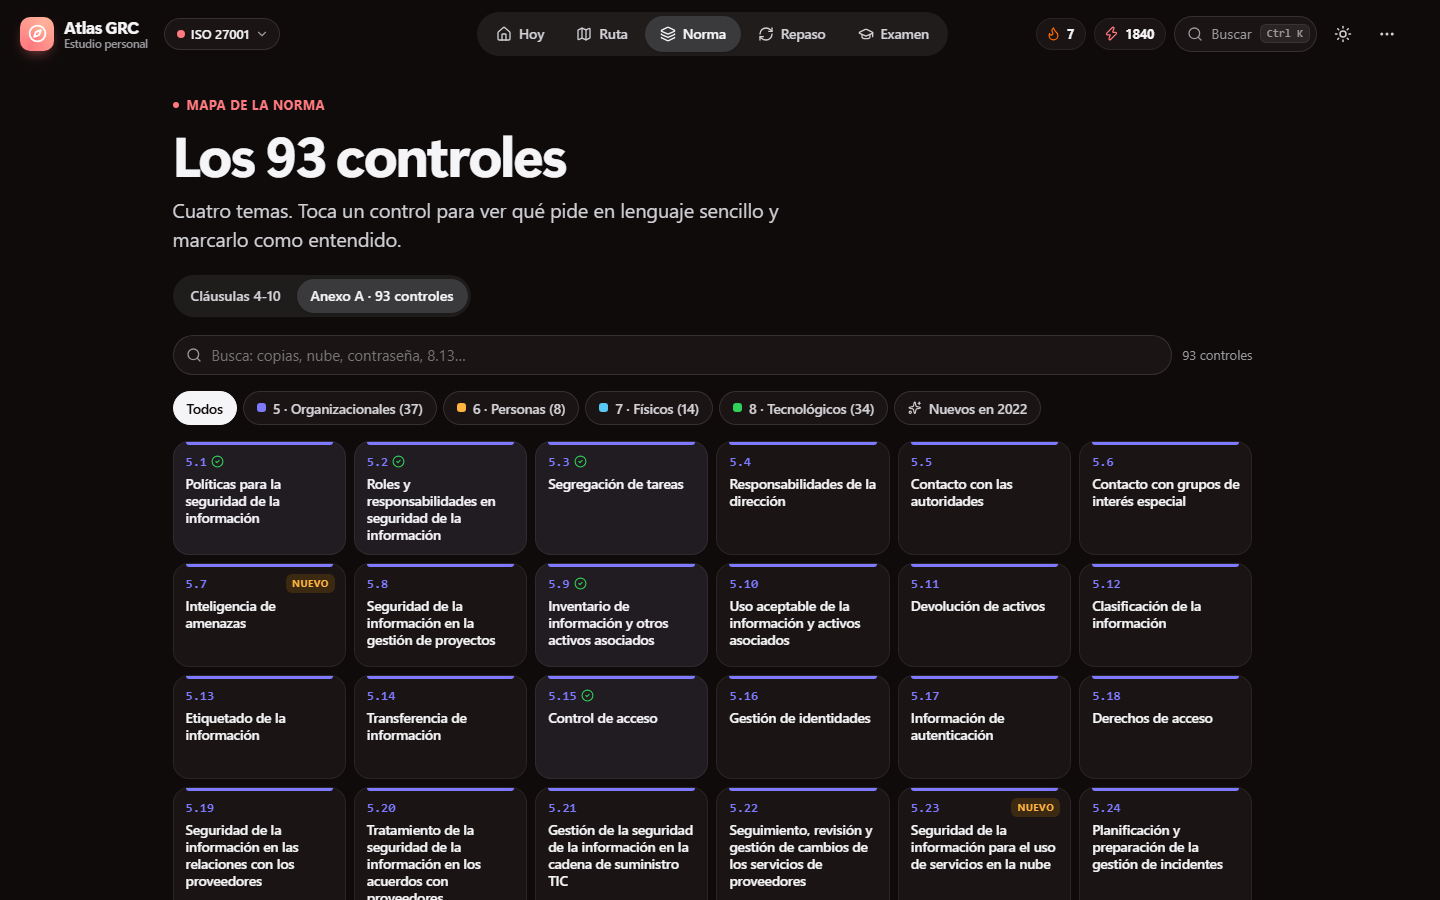
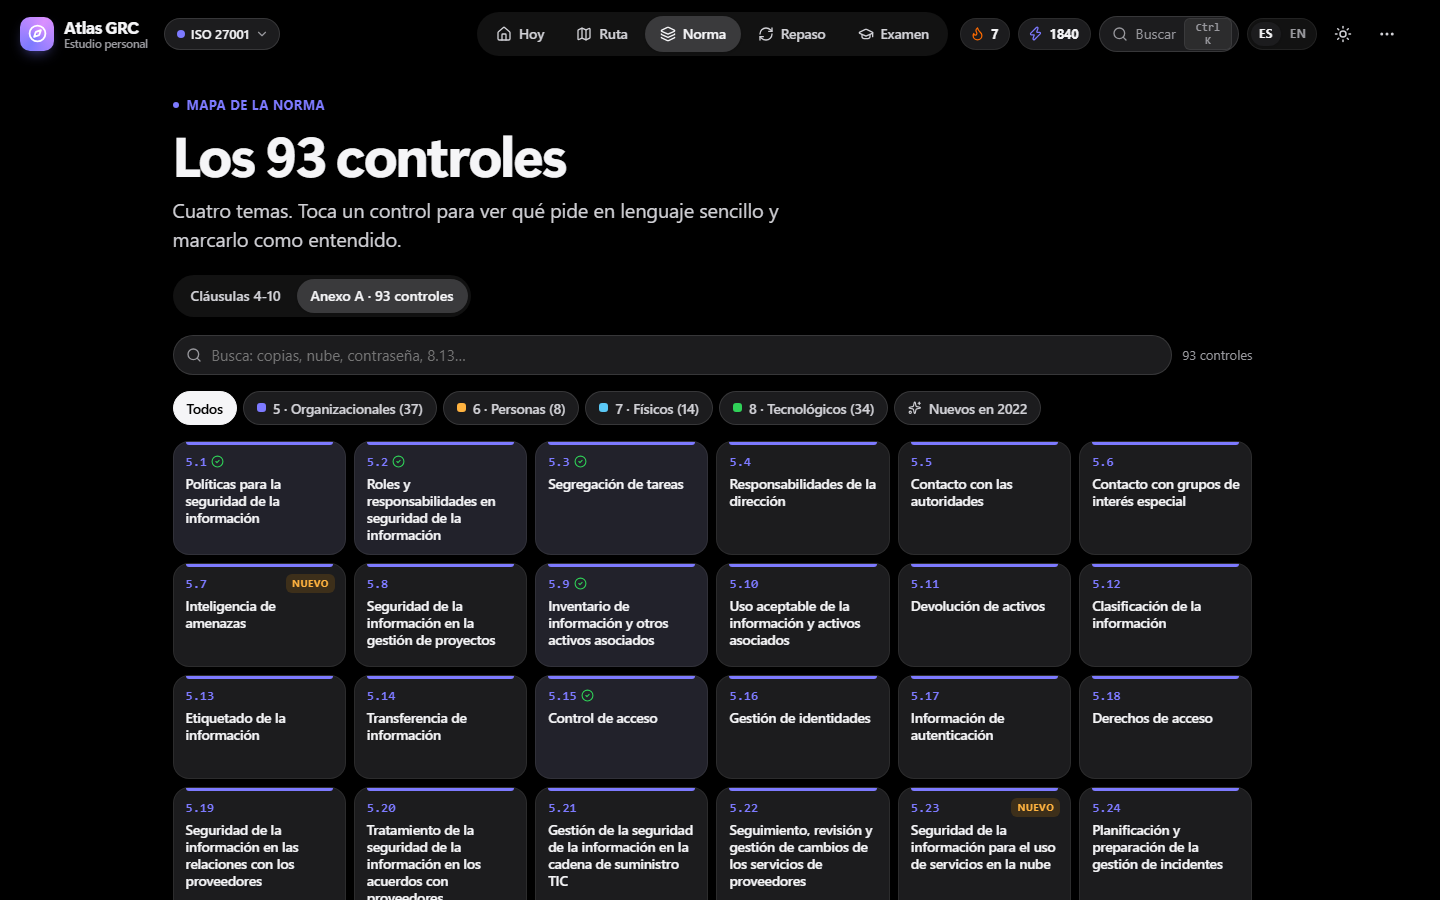
README: capturas nuevas en malva y modo claro, inglés y los cuatro colores
- Captura principal en modo claro y color malva.
- Nuevas capturas: Hoy en inglés, coral, azul y verde, y el móvil en inglés.
- Texto actualizado: español e inglés, modo claro por defecto, bordes más marcados.
- La intro de vídeo no sale con ?captura (solo se usa para estas capturas).

Changed region(s): [[0.6875, 0.0, 0.9062, 0.0622], [0.125, 0.0933, 0.2188, 0.1244], [0.0, 0.0, 0.0625, 0.0622]]

diff --git a/app/js/intro.js b/app/js/intro.js
@@ -47,7 +47,8 @@
     }).catch(resumeMuted);
   }
 
-  if (reduced) {
+  // Sin intro con movimiento reducido ni en el modo de capturas del README (?captura)
+  if (reduced || /[?&]captura/.test(location.search)) {
     root.remove();
     return;
   }

diff --git a/README.md b/README.md
@@ -18,11 +18,12 @@
   <img alt="Simulacro CertiProf" src="https://img.shields.io/badge/simulacro-CertiProf%20I27001F-2E9E7A?style=flat"/>
   <img alt="Estado beta" src="https://img.shields.io/badge/estado-beta-F2545B?style=flat"/>
   <img alt="Sin dependencias" src="https://img.shields.io/badge/dependencias-0-2E8B57?style=flat"/>
+  <img alt="Español e inglés" src="https://img.shields.io/badge/idiomas-ES%20%C2%B7%20EN-0A84FF?style=flat"/>
   <img alt="Iconos Lucide" src="https://img.shields.io/badge/iconos-Lucide-F56565?style=flat&logo=lucide&logoColor=white"/>
 </p>
 
 <p align="center">
-  <img src="docs/img/readme/hoy-light.png" alt="Pantalla Hoy: siguiente paso, anillos de actividad, accesos rápidos y carrusel de bloques" width="880"/>
+  <img src="docs/img/readme/hoy-light.png" alt="Pantalla Hoy en modo claro y color malva: siguiente paso, anillos de actividad, accesos rápidos y la ciudad" width="880"/>
 </p>
 
 Empezar en GRC leyendo directamente una norma suele acabar igual: memorizar cláusulas sin entender cómo se convierten en documentos, controles y decisiones reales. **Atlas** ordena el aprendizaje en un recorrido corto y práctico:
@@ -33,7 +34,7 @@ Empezar en GRC leyendo directamente una norma suele acabar igual: memorizar clá
 - **simulacro** con el formato del examen ISO/IEC 27001 Foundation de CertiProf (40 preguntas, 60 minutos) y un banco de **280 preguntas propias**;
 - **repaso espaciado** del glosario y de los errores, para que lo aprendido se quede.
 
-Funciona en el navegador, sin servidor, sin cuentas y sin conexión. Tu progreso no sale de tu equipo.
+Funciona en el navegador, sin servidor, sin cuentas y sin conexión. Tu progreso no sale de tu equipo. Toda la plataforma está en **español e inglés**: el selector ES/EN está junto al botón de tema.
 
 <div align="center">
 
@@ -80,7 +81,7 @@ Funciona en el navegador, sin servidor, sin cuentas y sin conexión. Tu progreso
       <td valign="top"><code>├─ ◉ diseño:</code><br><br>
         <img alt="Apple" src="https://img.shields.io/badge/estilo-Apple-111111?style=for-the-badge&logo=apple&logoColor=white"/>
         <img alt="Emil Kowalski" src="https://img.shields.io/badge/movimiento-Emil%20Kowalski-5E5CE6?style=for-the-badge"/><br>
-        <sub><code>claro y oscuro · malva, coral, azul y verde · Sonner · Vaul · respeta «reducir movimiento»</code></sub>
+        <sub><code>abre en claro · oscuro opcional · malva, coral, azul y verde · Sonner · Vaul · respeta «reducir movimiento»</code></sub>
       </td>
       <td valign="top"><code>╰─ ⌁ privacidad:</code><br><br>
         <img alt="Sin servidor" src="https://img.shields.io/badge/sin-servidor-2E8B57?style=for-the-badge"/>
@@ -192,7 +193,7 @@ mindmap
 | <img src="docs/assets/icons/sparkles.svg" width="18"/> | **Repaso y glosario** | 64 términos con tarjetas que se giran y la sesión de «Mis errores». |
 | <img src="docs/assets/icons/user-round.svg" width="18"/> | **Acerca de** | Autor, enlace al código fuente, aviso de independencia y las demás herramientas GRC del ecosistema (también en Ajustes). |
 
-También incluye buscador global (`Ctrl + K`), progreso con calendario de constancia e insignias, temas claro y oscuro en cuatro colores (malva, coral, azul eléctrico y verde), copia de seguridad del progreso, versión móvil y un **modo demostración** con progreso de ejemplo: [`?demo`](https://heindall92.github.io/atlas-grc/?demo).
+También incluye buscador global (`Ctrl + K`), progreso con calendario de constancia e insignias, **español e inglés** (interfaz y contenido), modo claro por defecto con tarjetas y bordes bien marcados, modo oscuro opcional, cuatro colores (malva, coral, azul eléctrico y verde), explicación desplegable en cada ejercicio, copia de seguridad del progreso, versión móvil y un **modo demostración** con progreso de ejemplo: [`?demo`](https://heindall92.github.io/atlas-grc/?demo).
 
 ## <img src="docs/assets/icons/image.svg" width="20" height="20" valign="middle"/> Capturas
 
@@ -219,12 +220,30 @@ También incluye buscador global (`Ctrl + K`), progreso con calendario de consta
 </tr>
 </table>
 
-<sub>Capturas en el tema coral del modo demostración. La app también tiene el tema índigo.</sub>
+<sub>Capturas del modo demostración en el color malva.</sub>
+
+**En inglés.** El selector ES/EN de la cabecera (o Ajustes → Idioma) cambia la interfaz y todo el contenido: lecciones, ejercicios, explicaciones, glosario y el caso Albatrel. El progreso es el mismo en los dos idiomas.
 
 <p align="center">
-  <img src="docs/img/readme/movil-dark.png" alt="Atlas en el móvil, modo oscuro" width="260"/>
-  &nbsp;&nbsp;
-  <img src="docs/img/readme/movil-light.png" alt="Atlas en el móvil, modo claro" width="260"/>
+  <img src="docs/img/readme/hoy-en-light.png" alt="Pantalla Hoy en inglés" width="880"/>
+</p>
+
+**Cuatro colores.** Malva (por defecto), coral, azul eléctrico y verde, en Ajustes → Color. El fondo es neutro en todos; el color va en las tarjetas y los acentos.
+
+<table>
+<tr>
+<td width="33%"><img src="docs/img/readme/piel-coral.png" alt="Color coral"/><br/><sub><b>Coral</b></sub></td>
+<td width="33%"><img src="docs/img/readme/piel-azul.png" alt="Color azul eléctrico"/><br/><sub><b>Azul eléctrico</b></sub></td>
+<td width="33%"><img src="docs/img/readme/piel-verde.png" alt="Color verde"/><br/><sub><b>Verde</b></sub></td>
+</tr>
+</table>
+
+<p align="center">
+  <img src="docs/img/readme/movil-light.png" alt="Atlas en el móvil, modo claro" width="240"/>
+  &nbsp;
+  <img src="docs/img/readme/movil-dark.png" alt="Atlas en el móvil, modo oscuro" width="240"/>
+  &nbsp;
+  <img src="docs/img/readme/movil-en-light.png" alt="Atlas en el móvil, en inglés" width="240"/>
 </p>
 
 ## <img src="docs/assets/icons/briefcase.svg" width="20" height="20" valign="middle"/> El caso Albatrel
@@ -316,6 +335,7 @@ flowchart LR
 - [x] Caso Albatrel con 15 documentos y modo Construir
 - [x] Bienvenida con plan personal, cuatro colores, modo demostración
 - [x] Ciudad de Albatrel: el progreso convertido en una maqueta 3D que crece
+- [x] Español e inglés en toda la plataforma
 - [ ] Bloques 7 a 9: controles del Anexo A en profundidad
 - [ ] Bloque 10: auditoría de certificación
 - [ ] Ilustraciones por bloque
@@ -326,6 +346,7 @@ flowchart LR
 - **Beta**: el contenido cubre las cláusulas 4 a 10; el Anexo A en profundidad y la auditoría de certificación están en camino.
 - El simulacro reproduce el **formato** del examen de CertiProf, no sus preguntas. Confirma la nota de aprobado y las condiciones en la [web oficial](https://certiprof.com/es/pages/certified-iso-iec-27001-2022-foundation-i27001f-spanish).
 - El progreso vive en el navegador: si borras sus datos, se pierde. Usa **Ajustes → Guardar copia**.
+- La traducción al inglés es propia y se hizo para estudiar: los números y títulos de la norma son los oficiales, el resto puede tener matices.
 - No sustituye a la norma ni a un curso oficial: es una herramienta de estudio.
 
 ## <img src="docs/assets/icons/folder-tree.svg" width="20" height="20" valign="middle"/> Estructura
@@ -346,10 +367,12 @@ atlas-grc/
 │   │   ├── city.js               Ciudad de Albatrel: datos, parte de obra y plano SVG de respaldo
 │   │   ├── city3d.js             Maqueta 3D (Three.js): edificios por piezas, día y noche, coches
 │   │   ├── app.js                Cabecera, rutas, buscador y bienvenida
+│   │   ├── i18n.js               Español / English: traduce datos e interfaz al vuelo
 │   │   └── icons.js              Iconos Lucide en línea (ISC)
 │   ├── data/
 │   │   ├── tracks.js             Registro de normas
 │   │   └── iso27001/             content · bloque2 a bloque5 · albatrel · norma
+│   ├── i18n/                     Diccionarios español → inglés (en-*.js)
 │   ├── vendor/three/             Three.js r169 y complementos (MIT)
 │   └── img/                      Ilustraciones opcionales
 │
